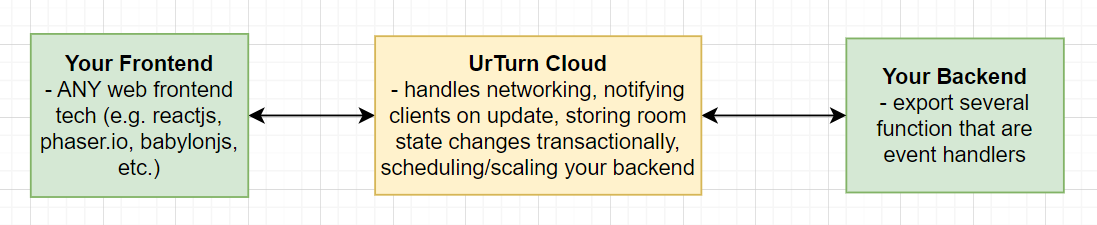
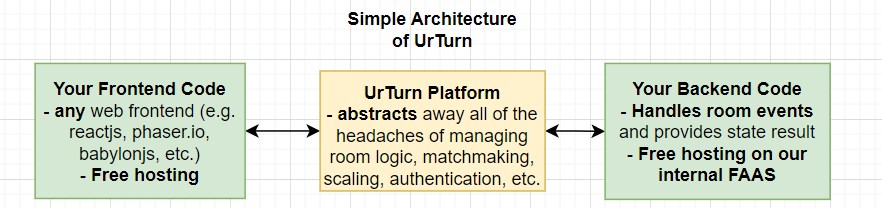
[MAIN-311] Address game developer embair's thoughtful feedback on documentation site (#87)
* make cards more clear

* make adustments to naming

* add todo comment

* add advanced guides

* adjust diagram again

* add state flow todo

* adjust

diff --git a/docs/src/components/ShowCase.js b/docs/src/components/ShowCase.js
@@ -40,19 +40,30 @@ const ExampleGameList = [
 const FeatureList = [
   {
     title: 'Multiplayer',
-    description: "Just write the code for how you want the state to change, and that's it. Room state transitions occur on the order of milliseconds with networking and matchmaking already built in.",
+    points: [
+      "Write the code for how you want the state to change, and that's it.",
+      'Networking and matchmaking already built in.',
+      'Updates occur on the order of milliseconds.'
+    ],
     svgComponent: <Multiplayer className={styles['svg-thumbnail']} />,
     learnMore: true
   },
   {
     title: 'Scale',
-    description: 'Never worry about scaling your games again, and never pay for scale again',
+    points: [
+      'Never worry about scaling or hosting your games again.',
+      'Never pay for infrastructure again', 
+      'We schedule your backend on our internal functions as a service platform for free.'
+    ],
     svgComponent: <Scale className={styles['svg-thumbnail']} />
   },
   {
     title: 'Monetization',
     subtitle: <span className={clsx("badge badge--warning", styles.badge)}>Coming Soon!</span>,
-    description: 'Monetize your games by implementing a simple function',
+    points: [
+      'Monetize your games by implementing a simple function.',
+      'ACID Transaction handling built in.'
+    ],
     svgComponent: <Monetize className={styles['svg-thumbnail']} />
   },
 ];
@@ -90,21 +101,24 @@ export default function ShowCase() {
         </Grid2>
       </Stack>
       <Stack maxWidth="90%" margin="auto" minHeight="60vh" alignItems="center" justifyContent="center">
-        <h1 className={styles['title-alt']}>Blazingly Fast Architecture</h1>
+        <h1 className={styles['title-alt']}>All of Your Infrastructure Needs</h1>
         <p className='hero__subtitle'>We are obsessed over the game developer experience. Here's what you can do with UrTurn.</p>
         <Grid2 container spacing={2} margin={2}>
-          {FeatureList.map(({ subtitle, title, description, svgComponent, learnMore }, index) => (
+          {FeatureList.map(({ subtitle, title, description, points, svgComponent, learnMore }, index) => (
             <Grid2 xs={12} sm={6} lg={4} key={index}>
               <Stack
                 width="100%"
                 alignItems="center"
-                maxHeight="400px"
+                maxHeight="500px"
                 margin={1}
               >
                 <div className={clsx("card", styles.card)}>
                   <div className="card__header">
                     <h1 className={styles['card-title']}>{title} {subtitle}</h1>
                     <p className={styles['card-title']}>{description}</p>
+                    <ul>
+                      {points.map((point, index) => <li key={index}>{point}</li>)}
+                    </ul>
                   </div>
                   {svgComponent}
                   {learnMore && <div class="card__footer">

diff --git a/docs/docusaurus.config.js b/docs/docusaurus.config.js
@@ -7,8 +7,8 @@ const darkCodeTheme = require('prism-react-renderer/themes/dracula');
 /** @type {import('@docusaurus/types').Config} */
 const config = {
   title: 'Create web games faster than ever',
-  tagline: "Use your favorite game frameworks, while leveraging all of UrTurn's open source infrastructure from a simple client for free.",
   url: 'https://docs.urturn.app',
+  tagline: "Use your favorite game frameworks, while deploying your frontend and backend on UrTurn's open source infrastructure for free",
   baseUrl: '/',
   onBrokenLinks: 'throw',
   onBrokenMarkdownLinks: 'warn',

diff --git a/docs/sidebars.js b/docs/sidebars.js
@@ -50,6 +50,17 @@ const sidebars = {
         'API/client',
       ],
     },
+    {
+      type: 'category',
+      label: 'Advanced Guides',
+      link: {
+        type: 'doc', id: 'Advanced/index'
+      },
+      items: [
+        'Advanced/custom-game-page',
+        'Advanced/self-hosting',
+      ],
+    },
   ],
 };
 

diff --git a/docs/src/pages/index.js b/docs/src/pages/index.js
@@ -31,7 +31,7 @@ function HomepageHeader() {
             className="button button--lg button--outline button--secondary"
             href="docs/"
           >
-            Concepts
+            Learn More
           </a>
         </Stack>
       </Stack>

diff --git a/docs/docs/3-Advanced/1-self-hosting.md b/docs/docs/3-Advanced/1-self-hosting.md
@@ -1,0 +1,19 @@
+---
+description: Instructions to self host all of UrTurn in case we get kidnapped by Roblox, sent to antarctica, and forced build Roblox games.
+---
+
+# Self Hosting UrTurn
+
+Dead dependencies can be costly. First, UrTurn developers are fully committed to this project and we aim to provide the best game developer experience.
+
+In the unlikely case, **where we are crippled financially** (unlikely because Kevin survives off of rice and beans at the moment), we still want game developers (especially indie developers) to have self hosting options.
+
+This project is first and foremost for game developers.
+
+## Self hosting instructions
+
+:::caution
+
+This work is planned. Join [discord](https://discord.gg/myWacjdb5S) to provide more details on your use case. We **guarantee** instructions are posted in the case we become insolvent.
+
+:::

diff --git a/docs/docs/0-Introduction/0-Introduction.md b/docs/docs/0-Introduction/0-Introduction.md
@@ -35,6 +35,15 @@ UrTurn is **NOT** opinionated on the frontend of your game or your dev environme
 - Continue to use your favorite frontend web technologies (e.g. vanilla HTML5, ReactJS, PhaserIO, BabylonJS, etc.), and hook into UrTurn using the `@urturn/client`.
 - Continue to use your favorite IDE for coding with JavaScript, and continue using your favorite dev tools and open source libraries.
 
+:::info
+
+UrTurn's framework is **NOT** closed source.
+
+:::
+
+- We want developers to have as much control over the look and feel of their game, and post them anywhere, host them anywhere.
+- If you wanted to self host UrTurn, you can because all code is available on GitHub. See self-hosting [guide](/docs/Advanced/self-hosting).
+
 :::caution
 
 UrTurn is **NOT** a real time gaming framework

diff --git a/docs/docs/3-Advanced/0-custom-game-page.md b/docs/docs/3-Advanced/0-custom-game-page.md
@@ -1,0 +1,15 @@
+---
+description: Fully customize your game page
+---
+
+# Custom Game Page
+
+Customize the game page posting on UrTurn. The default look is often not enough to fully sell your game to players.
+
+:::caution
+
+This work is in progress. Join the early release wait list on [discord](https://discord.gg/myWacjdb5S).
+
+Ideally, you will be able to modify and use any game data on the front page for a much more unique and richer experience for your players.
+
+:::

diff --git a/docs/docs/3-Advanced/index.md b/docs/docs/3-Advanced/index.md
@@ -1,0 +1,9 @@
+# Advanced Guides
+
+This section is not going to be very structured but will cover several specific use cases:
+
+```mdx-code-block
+import DocCardList from '@theme/DocCardList';
+
+<DocCardList />
+```

diff --git a/docs/docs/1-Getting-Started/0-runner-init.md b/docs/docs/1-Getting-Started/0-runner-init.md
@@ -4,6 +4,12 @@ description: Quickly generate a new UrTurn Game
 
 # Generating a new UrTurn Game
 
+:::success
+
+Understand what [UrTurn is and isn't](/docs).
+
+:::
+
 ## Create Game
 
 ```bash
